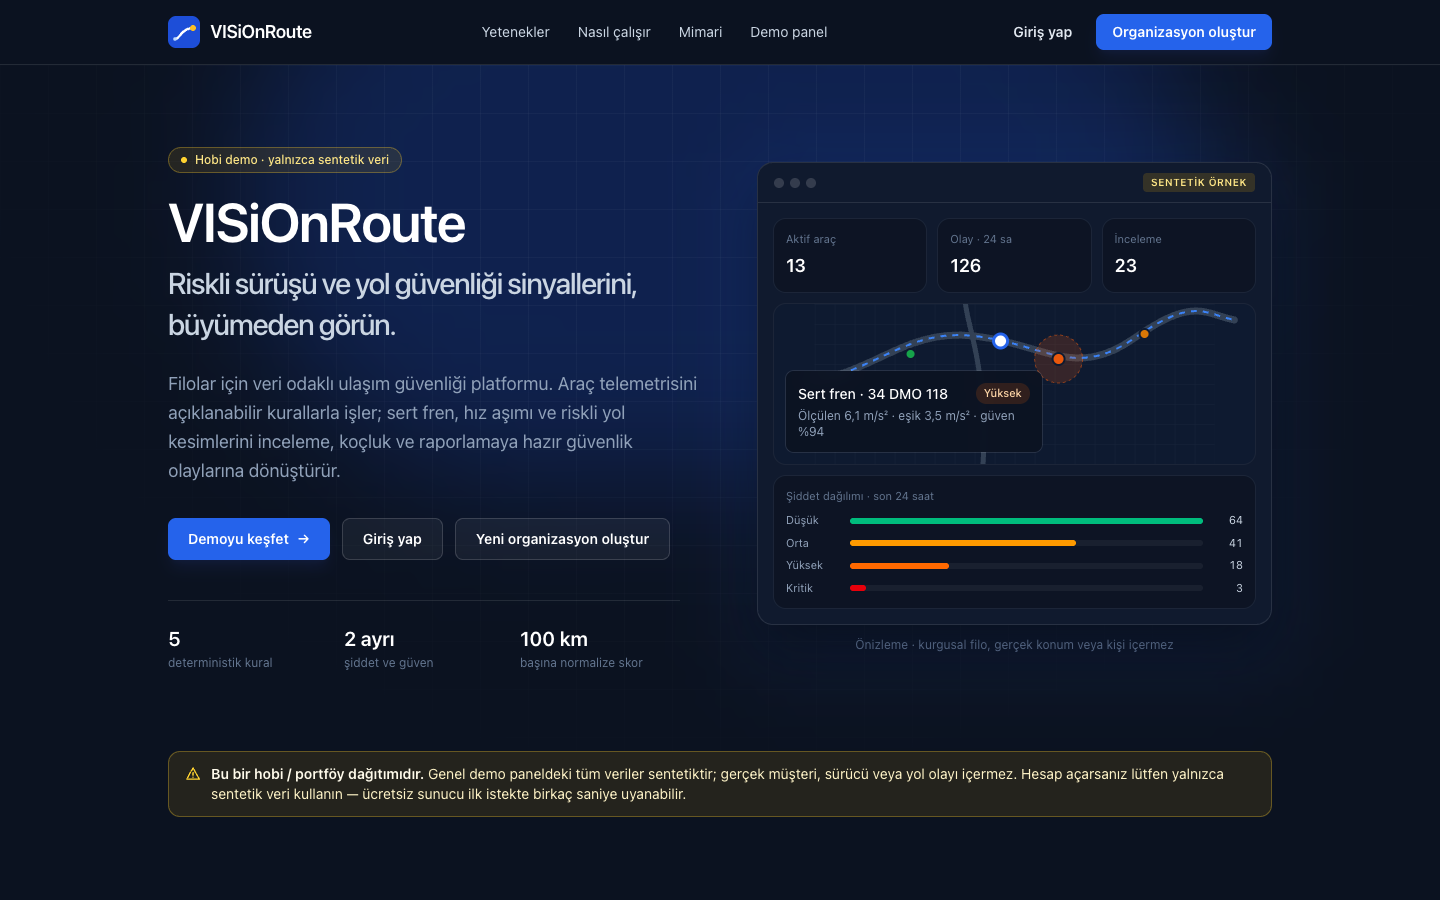
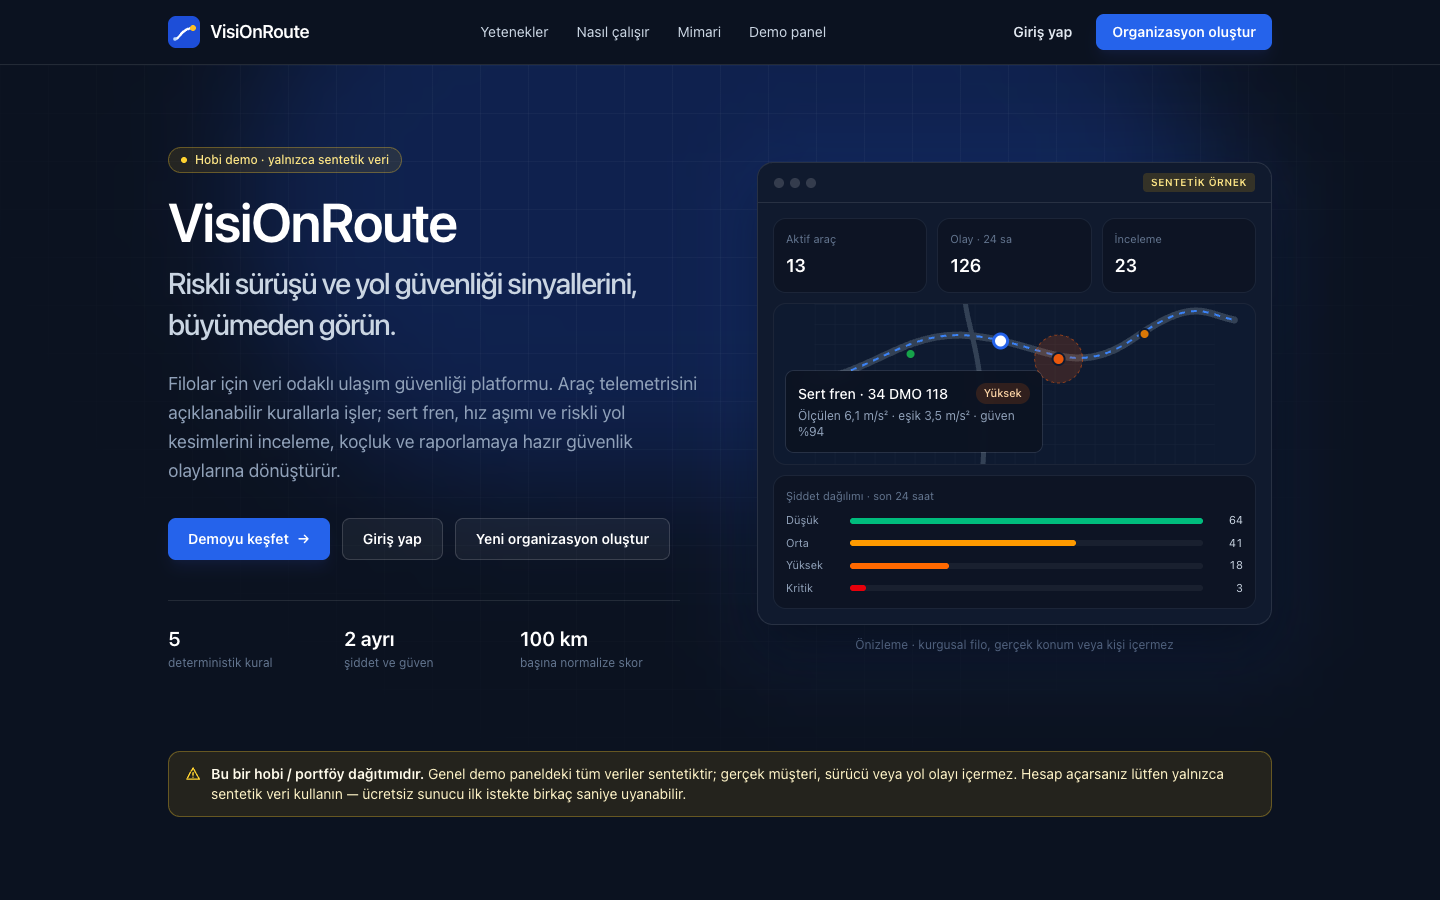
chore: canonical "VisiOnRoute" branding; Render deploys after CI passes
Branding: the product name is written exactly "VisiOnRoute" everywhere people
read it: public landing and demo, authenticated UI, auth pages, page
metadata, e-mail subjects, bodies and footer, sender display name, TOTP
issuer, PDF report title, API title, webhook User-Agent, README, docs and
screenshots. Technical identifiers are unchanged: VISIONROUTE_* environment
variables, the visionroute package/CLI, infrastructure resource names and
the repository URL. tests/unit/test_branding.py fails on any other
mixed-case spelling so the old casing cannot creep back.

Deployment: render.yaml replaces the deprecated `autoDeploy: false` with
`autoDeployTrigger: checksPass`, so Render deploys a main commit only after
its GitHub Actions checks pass. The service definition, free plan, Docker
setup, env vars, health check and `visionroute hobby serve` command are
unchanged; the Blueprint validates against Render's published schema.

Also lands the pending hobby-deployment work: scripts/hobby/smoke.sh (live
smoke test for the demo), the CI/RLS findings in PROGRESS/HANDOVER/
RELEASE_READINESS, and a continuous-deployment note in hobby-deployment.md.

diff --git a/apps/web/src/app/page.tsx b/apps/web/src/app/page.tsx
@@ -11,9 +11,9 @@ import { CTA_STYLES } from "@/components/public-styles";
 import { SessionHint } from "@/components/SessionHint";
 
 export const metadata: Metadata = {
-  title: { absolute: "VISiOnRoute — Ulaşım güvenliği platformu" },
+  title: { absolute: "VisiOnRoute — Ulaşım güvenliği platformu" },
   description:
-    "VISiOnRoute araç telemetrisini açıklanabilir kurallarla işler; riskli sürüş davranışlarını ve yol güvenliği sinyallerini görünür kılar. Hobi demo, yalnızca sentetik veri.",
+    "VisiOnRoute araç telemetrisini açıklanabilir kurallarla işler; riskli sürüş davranışlarını ve yol güvenliği sinyallerini görünür kılar. Hobi demo, yalnızca sentetik veri.",
 };
 
 const CAPABILITIES: { icon: IconName; title: string; body: string; tags: string[] }[] = [
@@ -144,7 +144,7 @@ export default function LandingPage() {
                 Hobi demo · yalnızca sentetik veri
               </p>
               <h1 className="mt-5 text-4xl font-semibold tracking-tight text-white sm:text-5xl lg:text-[3.4rem] lg:leading-[1.05]">
-                VISiOnRoute
+                VisiOnRoute
                 <span className="mt-3 block text-2xl font-medium leading-snug text-slate-300 sm:text-3xl">
                   Riskli sürüşü ve yol güvenliği sinyallerini, büyümeden görün.
                 </span>

diff --git a/apps/web/src/app/panel/page.tsx b/apps/web/src/app/panel/page.tsx
@@ -88,7 +88,7 @@ export default function OverviewPage() {
 
       {showSetup && (
         <Card className="mb-6 border-brand-100 bg-brand-50/50">
-          <SectionHeading title="Başlangıç adımları" description="VISiOnRoute'u kullanmaya başlamak için şu adımları tamamlayın." />
+          <SectionHeading title="Başlangıç adımları" description="VisiOnRoute'u kullanmaya başlamak için şu adımları tamamlayın." />
           <ol className="grid grid-cols-1 gap-2 sm:grid-cols-2 lg:grid-cols-4">
             {steps.map((step, index) => (
               <li key={step.label}>
@@ -213,7 +213,7 @@ export default function OverviewPage() {
         <SectionHeading title="Metodoloji" />
         <p className="text-sm text-slate-600">
           Güvenlik olayları, telemetri verilerine uygulanan <strong>deterministik kurallarla</strong> üretilir. Şiddet
-          ve güven seviyeleri ayrı hesaplanır; düşük veri kalitesi olayı insan incelemesine işaretler. VISiOnRoute
+          ve güven seviyeleri ayrı hesaplanır; düşük veri kalitesi olayı insan incelemesine işaretler. VisiOnRoute
           kazaları önlediğini iddia etmez; riskli sürüş davranışlarını ve yol güvenliği sinyallerini veriye dayalı ve
           açıklanabilir biçimde görünür kılar.
         </p>

diff --git a/apps/web/src/components/PublicSite.tsx b/apps/web/src/components/PublicSite.tsx
@@ -29,7 +29,7 @@ export function Wordmark({ tone = "light" }: { tone?: "light" | "dark" }) {
     <span className="flex items-center gap-2.5">
       <LogoMark />
       <span className={`text-lg font-semibold tracking-tight ${tone === "light" ? "text-white" : "text-ink-900"}`}>
-        VISiOnRoute
+        VisiOnRoute
       </span>
     </span>
   );
@@ -71,7 +71,7 @@ export function PublicHeader({ wide = false }: { wide?: boolean }) {
   return (
     <header className="sticky top-0 z-40 border-b border-white/10 bg-ink-900">
       <div className={`mx-auto flex h-16 ${wide ? "max-w-7xl" : "max-w-6xl"} items-center justify-between gap-3 px-4 sm:px-6`}>
-        <Link href="/" aria-label="VISiOnRoute ana sayfa" className="rounded-lg focus:outline-none focus-visible:ring-2 focus-visible:ring-white/50">
+        <Link href="/" aria-label="VisiOnRoute ana sayfa" className="rounded-lg focus:outline-none focus-visible:ring-2 focus-visible:ring-white/50">
           <Wordmark />
         </Link>
         <nav aria-label="Genel menü" className="hidden items-center gap-1 lg:flex">

diff --git a/apps/web/src/components/AuthCard.tsx b/apps/web/src/components/AuthCard.tsx
@@ -23,7 +23,7 @@ export function AuthCard({
       <div className="w-full max-w-md rounded-2xl bg-white p-6 shadow-xl sm:p-8">
         <div className="mb-6">
           <Link href="/" className="text-sm font-semibold tracking-wide text-brand-700">
-            VISiOnRoute
+            VisiOnRoute
           </Link>
           <h1 className="mt-2 text-2xl font-semibold text-ink-900">{title}</h1>
           {description && <p className="mt-1 text-sm text-slate-500">{description}</p>}
@@ -32,7 +32,7 @@ export function AuthCard({
         {footer && <div className="mt-6 border-t border-slate-100 pt-4 text-sm">{footer}</div>}
       </div>
       <p className="mt-6 max-w-md text-center text-xs text-slate-400">
-        VISiOnRoute riskli sürüş davranışlarını ve yol güvenliği sinyallerini görünür kılar; kazaları
+        VisiOnRoute riskli sürüş davranışlarını ve yol güvenliği sinyallerini görünür kılar; kazaları
         önlediğini iddia etmez ve insan değerlendirmesinin yerini almaz.
       </p>
     </main>

diff --git a/apps/web/src/app/not-found.tsx b/apps/web/src/app/not-found.tsx
@@ -4,7 +4,7 @@ export default function NotFound() {
   return (
     <main className="flex min-h-screen items-center justify-center bg-ink-900 px-4">
       <div className="w-full max-w-md rounded-2xl bg-white p-8 text-center shadow-xl">
-        <p className="text-sm font-semibold text-brand-600">VISiOnRoute</p>
+        <p className="text-sm font-semibold text-brand-600">VisiOnRoute</p>
         <h1 className="mt-2 text-2xl font-semibold text-ink-900">Sayfa bulunamadı</h1>
         <p className="mt-2 text-sm text-slate-600">
           Aradığınız sayfa taşınmış veya hiç var olmamış olabilir.

diff --git a/apps/web/e2e/public.spec.ts b/apps/web/e2e/public.spec.ts
@@ -15,7 +15,7 @@ test("anonim ziyaretçi ana sayfada ürün tanıtımını görür, girişe yönl
   const apiCalls = trackApiCalls(page);
   await page.goto("/");
   await expect(page).toHaveURL(/\/$/);
-  await expect(page.getByRole("heading", { level: 1 })).toContainText("VISiOnRoute");
+  await expect(page.getByRole("heading", { level: 1 })).toContainText("VisiOnRoute");
   await expect(page.getByText("Hobi demo · yalnızca sentetik veri").first()).toBeVisible();
   const main = page.getByRole("main");
   await expect(main.getByRole("link", { name: /Demoyu keşfet/ }).first()).toBeVisible();

diff --git a/apps/web/src/app/panel/entegrasyonlar/page.tsx b/apps/web/src/app/panel/entegrasyonlar/page.tsx
@@ -373,7 +373,7 @@ function SetupGuide() {
     <Card className="mt-6">
       <SectionHeading
         title="Bağlantı rehberi"
-        description="Cihaz veya telematik sağlayıcınızın VISiOnRoute'a telemetri göndermesi için adımlar."
+        description="Cihaz veya telematik sağlayıcınızın VisiOnRoute'a telemetri göndermesi için adımlar."
       />
       <ol className="list-decimal space-y-2 pl-5 text-sm text-slate-700">
         <li>Araçlar sayfasında aracı, telemetrideki kimliğiyle (dış kimlik) ekleyin.</li>

diff --git a/apps/web/src/components/AppShell.tsx b/apps/web/src/components/AppShell.tsx
@@ -145,7 +145,7 @@ export function AppShell({ children }: { children: ReactNode }) {
       >
         <div className="flex items-start justify-between px-5 py-5">
           <Link href="/panel" className="block">
-            <span className="text-lg font-semibold tracking-tight text-white">VISiOnRoute</span>
+            <span className="text-lg font-semibold tracking-tight text-white">VisiOnRoute</span>
             <span className="mt-0.5 block text-xs text-slate-400">Ulaşım Güvenliği</span>
           </Link>
           <button

diff --git a/apps/web/src/app/demo/page.tsx b/apps/web/src/app/demo/page.tsx
@@ -4,7 +4,7 @@ import { DemoDashboard } from "./DemoDashboard";
 export const metadata: Metadata = {
   title: "Demo panel (sentetik veri)",
   description:
-    "VISiOnRoute genel bakış panelinin salt okunur önizlemesi. Tüm araçlar, sürücüler, konumlar ve olaylar kurgusal ve sentetiktir.",
+    "VisiOnRoute genel bakış panelinin salt okunur önizlemesi. Tüm araçlar, sürücüler, konumlar ve olaylar kurgusal ve sentetiktir.",
 };
 
 export default function DemoPage() {

diff --git a/apps/web/src/app/davet/page.tsx b/apps/web/src/app/davet/page.tsx
@@ -112,7 +112,7 @@ export default function InvitationPage() {
       <form onSubmit={onSubmit} className="space-y-4">
         {preview.account_exists ? (
           <Alert kind="info">
-            Bu e-posta adresiyle zaten bir VISiOnRoute hesabınız var. Daveti kabul ettikten sonra
+            Bu e-posta adresiyle zaten bir VisiOnRoute hesabınız var. Daveti kabul ettikten sonra
             mevcut parolanızla giriş yapabilirsiniz.
           </Alert>
         ) : (

diff --git a/apps/web/src/app/kayit/page.tsx b/apps/web/src/app/kayit/page.tsx
@@ -52,7 +52,7 @@ export default function RegisterPage() {
   return (
     <AuthCard
       title="Organizasyon oluşturun"
-      description="Filonuz için VISiOnRoute hesabı açın. 30 günlük deneme ile başlarsınız."
+      description="Filonuz için VisiOnRoute hesabı açın. 30 günlük deneme ile başlarsınız."
       footer={
         <p className="text-slate-600">
           Zaten hesabınız var mı?{" "}

diff --git a/apps/web/src/app/layout.tsx b/apps/web/src/app/layout.tsx
@@ -4,8 +4,8 @@ import { Providers } from "@/lib/providers";
 
 export const metadata: Metadata = {
   title: {
-    default: "VISiOnRoute",
-    template: "%s | VISiOnRoute",
+    default: "VisiOnRoute",
+    template: "%s | VisiOnRoute",
   },
   description:
     "Sürücü davranışlarını ve yol koşullarını gerçek zamanlı analiz ederek riskleri oluşmadan görünür kılan ulaşım güvenliği platformu.",
